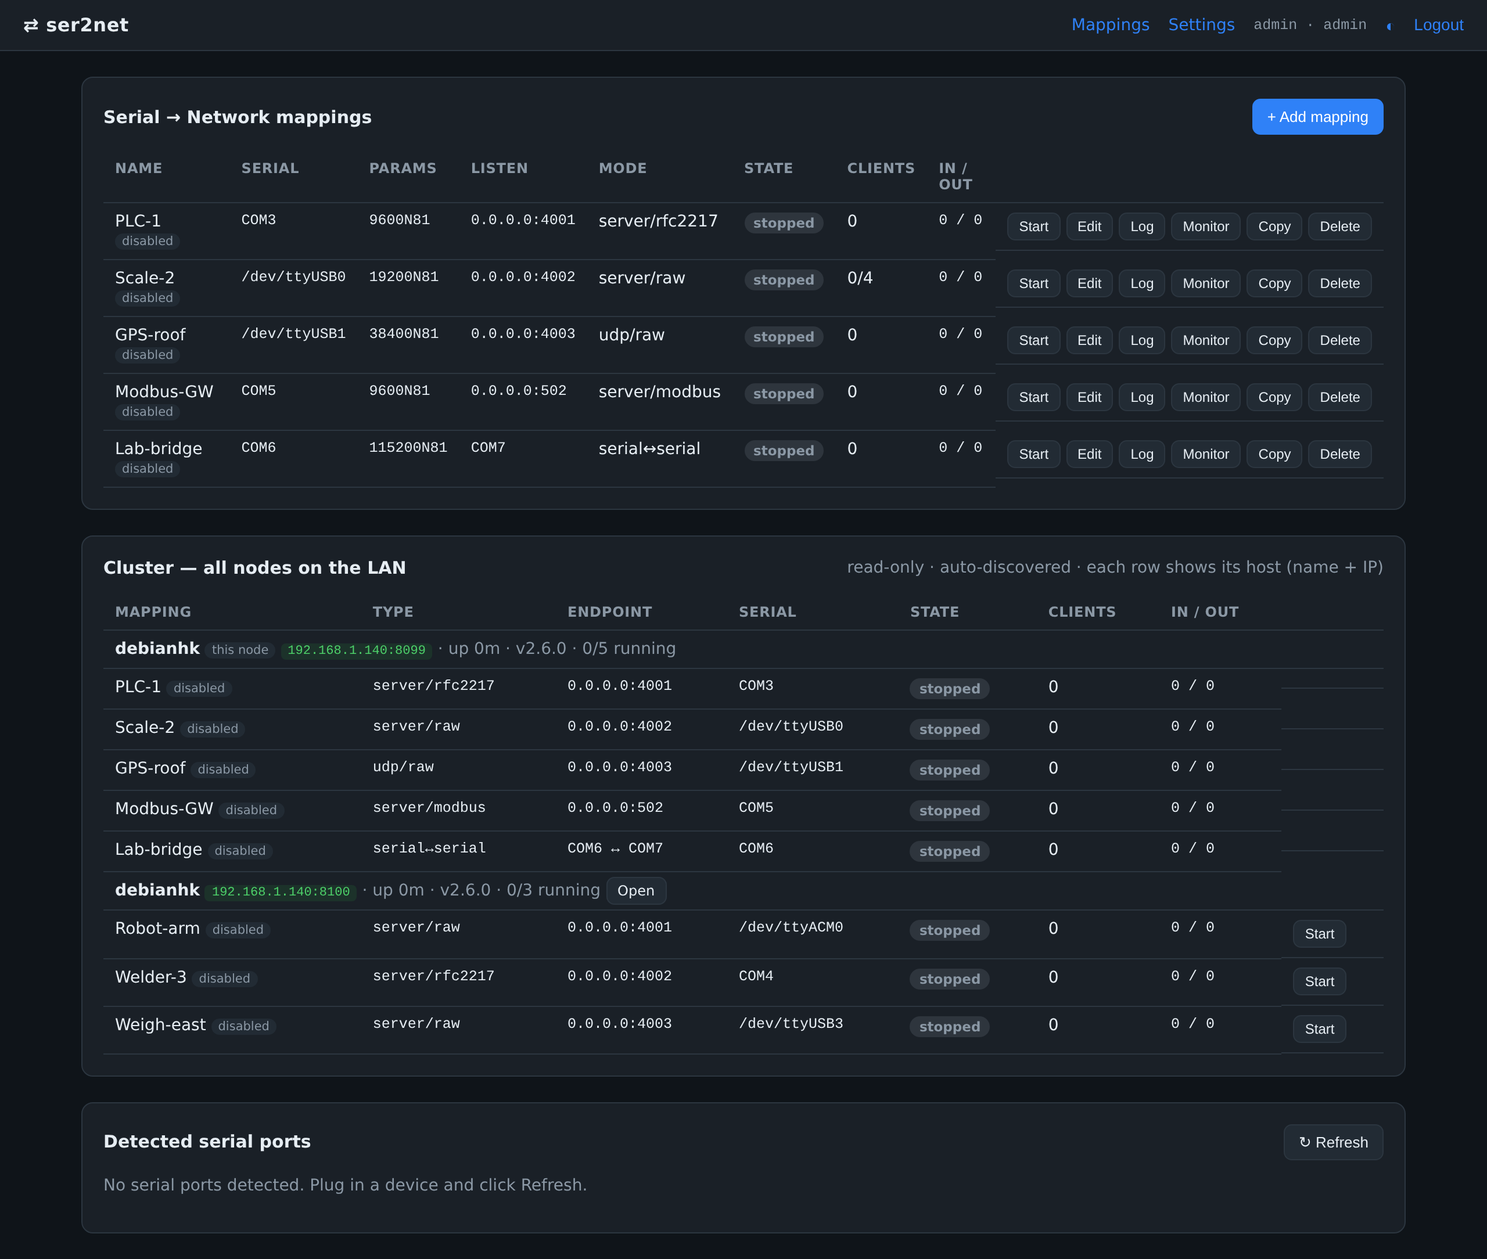
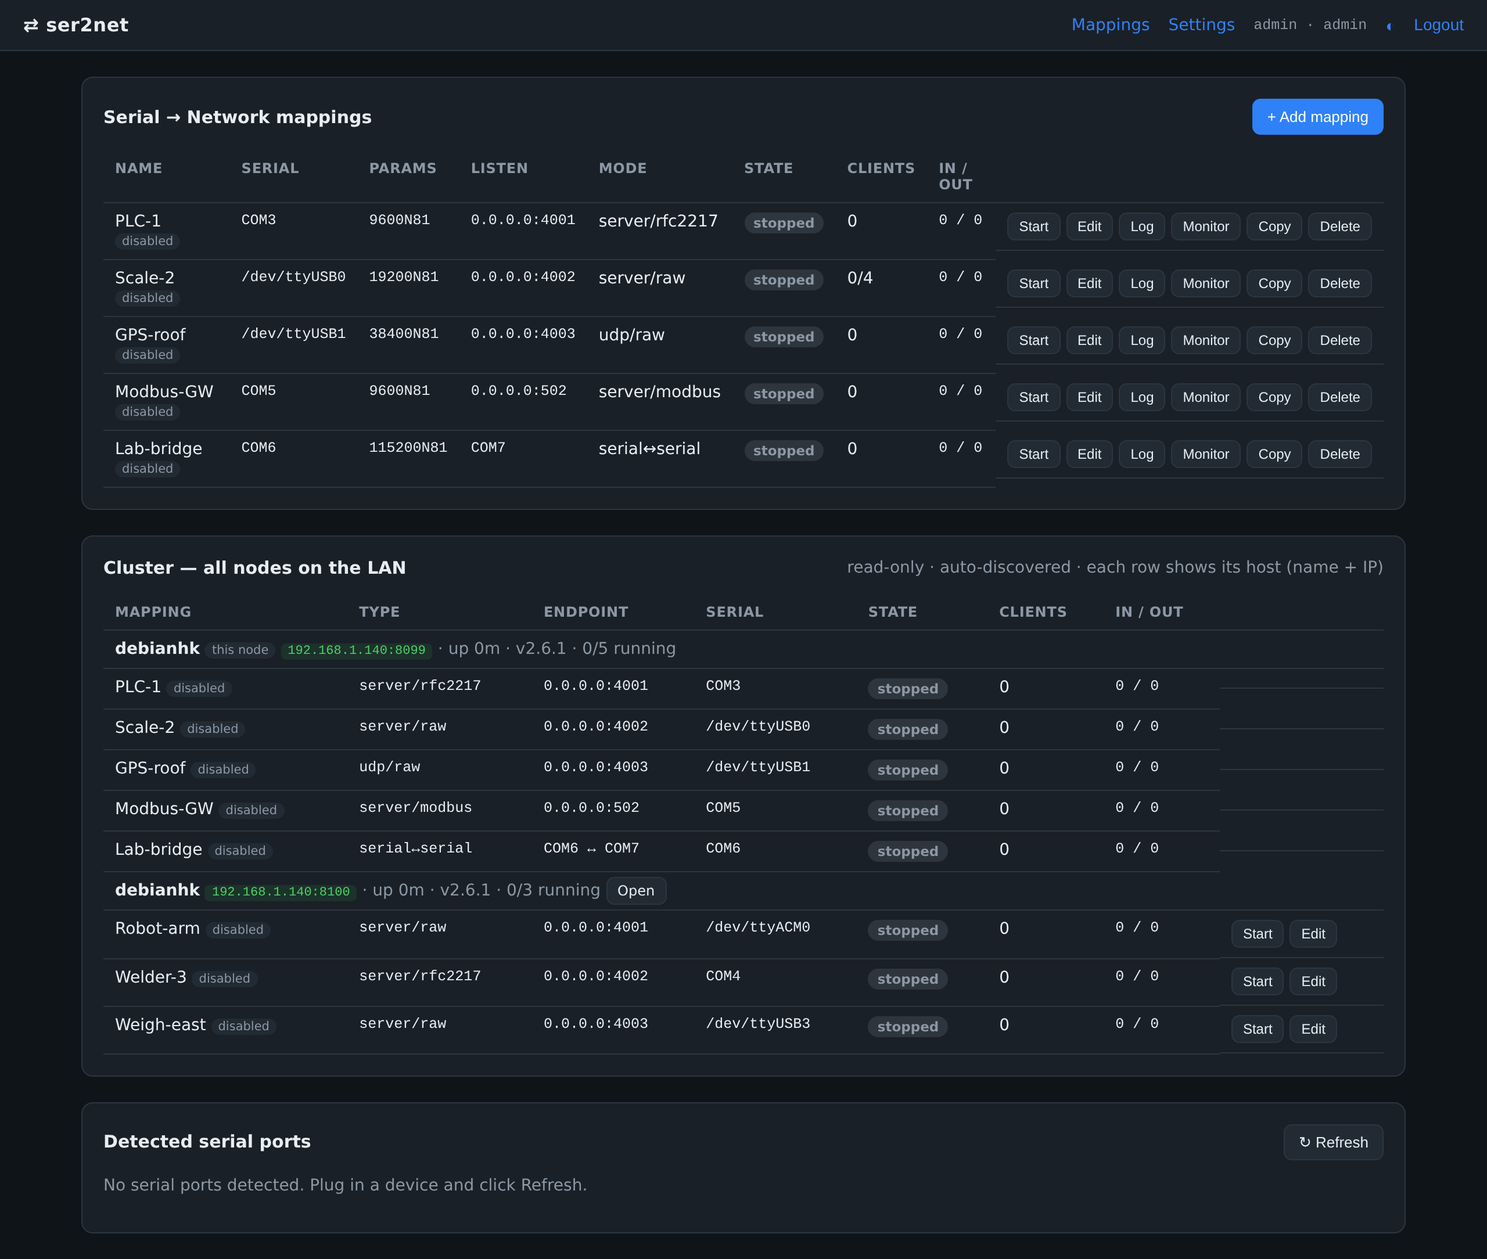
feat(cluster): remote edit of a peer's mapping from the unified view (v2.6.1)
Operators can now edit a remote node's mapping from the fleet table, not just
start/stop/restart it.

- Key-guarded peer endpoints: GET /api/cluster/mapping-data (mapping config + the
  peer's serial ports + IP candidates) and POST /api/cluster/mapping-save (validate
  + persist + apply on the target). Both in _CLUSTER_PEER_PATHS (PUBLIC + CSRF-exempt).
- Browser-facing proxies (operator+, allowlist-checked): GET /api/cluster/peer-form
  and POST /api/cluster/peer-save. The edit form is rendered on the CONTROLLING node
  (so the CSRF token belongs to the browser's session), with _mapping_form.html in a
  "remote mode" that targets the proxy and carries the peer routing; the save is then
  forwarded to the peer with the shared key.
- mapping_save refactored to share _save_mapping_from_form; peer HTTP generalized to
  get_peer/post_peer. Edit button on remote rows.
- tests/test_cluster.py: extends the two-node test with a remote edit (form loads
  from the peer + a save changes the peer's mapping) and the mapping-save key guard.
- Version 2.6.1 (single-sourced in app/__init__.py); README/ROADMAP + screenshots.

diff --git a/app/web/templates/_mapping_form.html b/app/web/templates/_mapping_form.html
@@ -45,12 +45,17 @@
 
 {% set ip_values = ips | map(attribute='value') | list %}
 {% set bind_is_custom = mapping.network.bind_ip not in ip_values %}
-<form class="mform" hx-post="/api/mappings/save" hx-target="#form-panel" hx-swap="innerHTML">
+<form class="mform" hx-post="{{ '/api/cluster/peer-save' if remote else '/api/mappings/save' }}" hx-target="#form-panel" hx-swap="innerHTML">
   <input type="hidden" name="_csrf" value="{{ request.state.csrf_token }}">
+  {% if remote %}
+  <input type="hidden" name="scheme" value="{{ remote.scheme }}">
+  <input type="hidden" name="host" value="{{ remote.host }}">
+  <input type="hidden" name="port" value="{{ remote.port }}">
+  {% endif %}
   {% if not is_new %}<input type="hidden" name="id" value="{{ mapping.id }}">{% endif %}
 
   <div class="form-head">
-    <h3>{{ 'New mapping' if is_new else 'Edit mapping' }}</h3>
+    <h3>{{ 'New mapping' if is_new else 'Edit mapping' }}{% if remote %} <span class="tag">on {{ remote.host }}:{{ remote.port }}</span>{% endif %}</h3>
     <button type="button" class="btn sm" data-cancel>Cancel</button>
   </div>
   {% if error %}<div class="banner error">{{ error }}</div>{% endif %}

diff --git a/app/web/templates/_cluster_body.html b/app/web/templates/_cluster_body.html
@@ -43,6 +43,7 @@
           {% else %}
             <button class="btn sm" hx-post="/api/cluster/control-peer" hx-vals='{{ vals }}start"}' hx-swap="none">Start</button>
           {% endif %}
+          <button class="btn sm" hx-get="/api/cluster/peer-form?scheme={{ n.scheme }}&host={{ n.ip }}&port={{ n.port }}&mid={{ m.id }}" hx-target="#form-panel" hx-swap="innerHTML">Edit</button>
         {% endif %}
       </td>
     </tr>

diff --git a/app/web/routes.py b/app/web/routes.py
@@ -757,6 +757,97 @@ def build_routes(templates, state, static_dir):
         state.audit(client_ip(request), f"cluster_control_{action}", f"{host}:{port}/{res.get('name', mid)}")
         return Response("", headers={"HX-Trigger": "refreshCluster"})
 
+    # ---- remote EDIT: peer renders no UI; THIS node renders the form (so the CSRF
+    #      token + form action belong to the browser's session) and proxies the save.
+    async def cluster_mapping_data(request):
+        """Peer-facing: a mapping's full config + this node's serial ports + IP
+        candidates, so the controlling node can render the edit form. Key-guarded."""
+        cfg = state.config
+        key = request.headers.get("x-cluster-key", "")
+        if not (cfg.cluster.active and key and hmac.compare_digest(key, cfg.cluster.key)):
+            return JSONResponse({"error": "forbidden"}, status_code=403)
+        m = cfg.get_mapping(request.query_params.get("mid", ""))
+        if not m:
+            return JSONResponse({"error": "not_found"}, status_code=404)
+        return JSONResponse({"mapping": m.to_dict(), "ports": state.ports.get(),
+                             "ips": netinfo.list_ip_candidates()})
+
+    async def cluster_mapping_save(request):
+        """Peer-facing: validate + persist + apply an edited mapping on THIS node, run
+        from the same form the controlling node rendered. Key-guarded."""
+        cfg = state.config
+        key = request.headers.get("x-cluster-key", "")
+        if not (cfg.cluster.active and key and hmac.compare_digest(key, cfg.cluster.key)):
+            return JSONResponse({"error": "forbidden"}, status_code=403)
+        form = await request.form()
+        ok, msg = await _save_mapping_from_form(form)
+        if not ok:
+            return JSONResponse({"ok": False, "error": msg}, status_code=400)
+        ip = client_ip(request)
+        state.log(f"cluster: remote edit of '{msg}' from {ip}")
+        state.audit(ip, "cluster_remote_save", msg)
+        return JSONResponse({"ok": True, "name": msg})
+
+    def _peer_from_request(getter):
+        """(scheme, host, port) from a request, validated against the peer allowlist.
+        Returns (tuple, None) on success or (None, error-response)."""
+        scheme, host = getter("scheme", "http"), getter("host", "")
+        try:
+            port = int(getter("port", "0"))
+        except ValueError:
+            return None, PlainTextResponse("Bad peer port", status_code=400)
+        if (host, port) not in state.cluster.known_addresses():
+            return None, PlainTextResponse("Unknown cluster peer", status_code=403)
+        return (scheme, host, port), None
+
+    async def cluster_peer_form(request):
+        """Browser-facing proxy: load a peer's mapping into the edit form (rendered
+        here so the CSRF token is the browser's). Submits to /api/cluster/peer-save."""
+        if deny := require_role(request, "operator"):
+            return deny
+        peer, err = _peer_from_request(request.query_params.get)
+        if err:
+            return err
+        scheme, host, port = peer
+        mid = request.query_params.get("mid", "")
+        data = await state.cluster.get_peer(scheme, host, port, f"/api/cluster/mapping-data?mid={mid}")
+        if not data or "mapping" not in data:
+            return PlainTextResponse("Could not load the peer's mapping.", status_code=502)
+        mapping = MappingConfig.from_dict(data["mapping"])
+        return render(request, "_mapping_form.html", mapping=mapping, is_new=False,
+                      modbus_points_json=_modbus_points_json(mapping),
+                      ports=data.get("ports", []), ips=data.get("ips", []),
+                      remote={"scheme": scheme, "host": host, "port": port}, error=None)
+
+    async def cluster_peer_save(request):
+        """Browser-facing proxy: forward an edited mapping form to the peer's key-guarded
+        save (peer fields stripped); on a peer error, re-render the form with it."""
+        if deny := require_role(request, "operator"):
+            return deny
+        form = await request.form()
+        peer, err = _peer_from_request(form.get)
+        if err:
+            return err
+        scheme, host, port = peer
+        skip = {"_peer_scheme", "_peer_host", "_peer_port", "_csrf", "scheme", "host", "port"}
+        fields = [(k, v) for k, v in form.multi_items() if k not in skip]
+        res = await state.cluster.post_peer(scheme, host, port, "/api/cluster/mapping-save", fields)
+        if res and res.get("ok"):
+            state.log(f"cluster: edited '{res.get('name', '')}' on {host}:{port}")
+            state.audit(client_ip(request), "cluster_edit", f"{host}:{port}/{res.get('name', '')}")
+            return Response("", headers={"HX-Trigger": "refreshCluster"})
+        msg = (res or {}).get("error") or "The peer rejected the change or was unreachable."
+        data = await state.cluster.get_peer(scheme, host, port,
+                                            f"/api/cluster/mapping-data?mid={form.get('id', '')}")
+        try:
+            mapping = MappingConfig.from_dict(_build_mapping_dict(form, strict=False))
+        except Exception:
+            mapping = MappingConfig(name=form.get("name", ""))
+        return render(request, "_mapping_form.html", status_code=400, mapping=mapping, is_new=False,
+                      modbus_points_json=_modbus_points_json(mapping),
+                      ports=(data or {}).get("ports", []), ips=(data or {}).get("ips", []),
+                      remote={"scheme": scheme, "host": host, "port": port}, error=msg)
+
     async def settings_cluster_post(request):
         if deny := require_role(request, "admin"):
             return deny
@@ -839,21 +930,19 @@ def build_routes(templates, state, static_dir):
         return render(request, "_console.html", mid=mid, mapping_name=m.name,
                       interactive=interactive)
 
-    async def mapping_save(request):
-        if deny := require_role(request, "operator"):
-            return deny
-        form = await request.form()
+    async def _save_mapping_from_form(form) -> tuple[bool, str]:
+        """Parse a mapping form, validate, persist and (re)apply. Returns (ok, name)
+        on success or (False, error). Shared by the local UI save and the cluster
+        remote-edit save (which runs the same form on the target node)."""
         try:
-            data = _mapping_from_form(form)
-            mapping = MappingConfig.from_dict(data)
+            mapping = MappingConfig.from_dict(_mapping_from_form(form))
             # The form doesn't expose every field; when editing, carry the unexposed
             # ones over so a save never silently wipes them (get_mapping is a sync
             # read — safe outside the config lock).
             _preserve_unmanaged_fields(mapping, state.config.get_mapping(mapping.id))
             mapping.validate()
         except (ValueError, ConfigError) as e:
-            return _form_error(render, request, state, form, str(e))
-
+            return False, str(e)
         # Hold the lock only to mutate + persist config; release it BEFORE the
         # (potentially slow) supervisor call so other admin requests aren't blocked
         # while a serial port is being (re)opened.
@@ -868,10 +957,19 @@ def build_routes(templates, state, static_dir):
                 await state.asave()
             except ConfigError as e:
                 state.config.mappings = backup
-                return _form_error(render, request, state, form, str(e))
+                return False, str(e)
         await state.supervisor.apply_mapping(mapping)
-        state.log(f"mapping saved: {mapping.name}")
-        state.audit(client_ip(request), "mapping_save", mapping.name)
+        return True, mapping.name
+
+    async def mapping_save(request):
+        if deny := require_role(request, "operator"):
+            return deny
+        form = await request.form()
+        ok, msg = await _save_mapping_from_form(form)
+        if not ok:
+            return _form_error(render, request, state, form, msg)
+        state.log(f"mapping saved: {msg}")
+        state.audit(client_ip(request), "mapping_save", msg)
         return Response("", headers=_TRIGGER)
 
     async def mapping_delete(request):
@@ -957,6 +1055,10 @@ def build_routes(templates, state, static_dir):
         Route("/api/cluster/local", cluster_local),
         Route("/api/cluster/control", cluster_control, methods=["POST"]),
         Route("/api/cluster/control-peer", cluster_control_peer, methods=["POST"]),
+        Route("/api/cluster/mapping-data", cluster_mapping_data),
+        Route("/api/cluster/mapping-save", cluster_mapping_save, methods=["POST"]),
+        Route("/api/cluster/peer-form", cluster_peer_form),
+        Route("/api/cluster/peer-save", cluster_peer_save, methods=["POST"]),
         Route("/api/ports.json", api_ports_json),
         Route("/api/ports/refresh", api_ports_refresh, methods=["POST"]),
         Route("/api/ports/table", api_ports_table),

diff --git a/app/engine/cluster.py b/app/engine/cluster.py
@@ -250,10 +250,26 @@ class ClusterDiscovery:
         ctx.verify_mode = ssl.CERT_NONE   # cluster trust is the shared key, not the cert
         return ctx
 
-    # ----- peer aggregation (HTTP) -----
-    async def fetch_peer(self, peer: dict, timeout: float = 2.5) -> dict | None:
-        url = f"{peer['scheme']}://{peer['ip']}:{peer['port']}/api/cluster/local"
+    # ----- peer HTTP (all key-guarded; trust is the shared key) -----
+    async def get_peer(self, scheme: str, host: str, port: int, path: str,
+                       timeout: float = 3.0) -> dict | None:
+        url = f"{scheme}://{host}:{port}{path}"
         return await asyncio.to_thread(self._http_get_json, url, timeout)
+
+    async def post_peer(self, scheme: str, host: str, port: int, path: str,
+                        fields: dict, timeout: float = 6.0) -> dict | None:
+        url = f"{scheme}://{host}:{port}{path}"
+        data = urllib.parse.urlencode(fields).encode()
+        return await asyncio.to_thread(self._http_post_json, url, data, timeout)
+
+    async def fetch_peer(self, peer: dict, timeout: float = 2.5) -> dict | None:
+        return await self.get_peer(peer["scheme"], peer["ip"], peer["port"],
+                                   "/api/cluster/local", timeout)
+
+    async def control_peer(self, scheme: str, host: str, port: int, mapping_id: str,
+                           action: str, timeout: float = 4.0) -> dict | None:
+        return await self.post_peer(scheme, host, port, "/api/cluster/control",
+                                    {"mapping_id": mapping_id, "action": action}, timeout)
 
     def _http_get_json(self, url: str, timeout: float) -> dict | None:
         req = urllib.request.Request(url, headers={"X-Cluster-Key": self.cluster.key})
@@ -262,13 +278,6 @@ class ClusterDiscovery:
                 return json.loads(r.read().decode("utf-8"))
         except Exception:
             return None
-
-    # ----- remote control (HTTP POST to a peer's key-guarded control endpoint) -----
-    async def control_peer(self, scheme: str, host: str, port: int, mapping_id: str,
-                           action: str, timeout: float = 4.0) -> dict | None:
-        url = f"{scheme}://{host}:{port}/api/cluster/control"
-        data = urllib.parse.urlencode({"mapping_id": mapping_id, "action": action}).encode()
-        return await asyncio.to_thread(self._http_post_json, url, data, timeout)
 
     def _http_post_json(self, url: str, data: bytes, timeout: float) -> dict | None:
         req = urllib.request.Request(

diff --git a/tests/test_cluster.py b/tests/test_cluster.py
@@ -293,7 +293,36 @@ def test_manual_peer_and_remote_control():
         assert post_a("/api/cluster/control-peer", bad) == 403, "unknown peer must be rejected"
         print("control proxy rejects an unknown (non-peer) address  OK")
 
-        print("\nPASS: manual peers + per-node health + remote control")
+        # ---- remote EDIT: load the peer's mapping into the form, change it, save ----
+        form_url = (f"/api/cluster/peer-form?scheme=http&host=127.0.0.1"
+                    f"&port={ui_b}&mid={mid}")
+        html = op.open(f"http://127.0.0.1:{ui_a}{form_url}", timeout=10).read().decode()
+        assert "/api/cluster/peer-save" in html and 'name="host"' in html, html[:400]
+        assert "Edit mapping" in html and "/dev/ttyTEST" in html, "form should show peer's values"
+        print("remote edit: peer's mapping loads into the form (routed to peer-save)  OK")
+
+        # peer-facing save is key-guarded
+        code, _ = raw_request(ui_b, "/api/cluster/mapping-save", method="POST")
+        assert code == 403, f"mapping-save without key must be 403, got {code}"
+
+        edit = {"_csrf": csrf(), "scheme": "http", "host": "127.0.0.1", "port": str(ui_b),
+                "id": mid, "name": "REMOTE1", "enabled": "on", "kind": "net",
+                "serial_port": "/dev/ttyEDITED", "serial_baudrate": "19200",
+                "serial_bytesize": "8", "serial_parity": "N", "serial_stopbits": "1",
+                "serial_flowcontrol": "none", "network_mode": "server",
+                "network_protocol": "raw", "network_bind_ip": "127.0.0.1",
+                "network_port": str(map_port)}
+        assert post_a("/api/cluster/peer-save", edit) == 200, "remote edit should be accepted"
+        for _ in range(20):
+            _, body = raw_request(ui_b, "/api/cluster/local", {"X-Cluster-Key": key})
+            if json.loads(body)["mappings"][0]["serial"] == "/dev/ttyEDITED":
+                break
+            time.sleep(0.1)
+        assert json.loads(body)["mappings"][0]["serial"] == "/dev/ttyEDITED", \
+            "remote edit did not change the peer's mapping"
+        print("remote edit of a peer's mapping took effect on the peer  OK")
+
+        print("\nPASS: manual peers + per-node health + remote control + remote edit")
     finally:
         for proc, tmp in ((pa, ta), (pb, tb)):
             proc.terminate()

diff --git a/app/web/server.py b/app/web/server.py
@@ -23,11 +23,12 @@ TEMPLATES_DIR = os.path.join(os.path.dirname(__file__), "templates")
 STATIC_DIR = os.path.join(os.path.dirname(__file__), "static")
 
 PUBLIC_PREFIXES = ("/static", "/auth/")  # /auth/oidc/* is the unauthenticated SSO flow
-# /api/cluster/local + /api/cluster/control are authenticated by the shared cluster
-# KEY (checked in the handler), not a user session — so they skip the session gate.
-# (control-peer is the browser-facing proxy and keeps the normal session + CSRF.)
-PUBLIC_PATHS = {"/login", "/setup", "/healthz", "/favicon.ico",
-                "/api/cluster/local", "/api/cluster/control"}
+# The peer-facing cluster endpoints are authenticated by the shared cluster KEY
+# (checked in the handler), not a user session — so they skip the session gate.
+# (The *-peer / peer-* proxies are browser-facing and keep the normal session + CSRF.)
+_CLUSTER_PEER_PATHS = {"/api/cluster/local", "/api/cluster/control",
+                       "/api/cluster/mapping-data", "/api/cluster/mapping-save"}
+PUBLIC_PATHS = {"/login", "/setup", "/healthz", "/favicon.ico"} | _CLUSTER_PEER_PATHS
 
 # High-frequency automatic UI refreshes — not logged to all.log to avoid flooding
 # the audit trail (the user actions that drive them ARE logged).
@@ -66,7 +67,7 @@ class GuardMiddleware(BaseHTTPMiddleware):
         # here, since doing so in a BaseHTTPMiddleware drains the stream before the
         # route handler can parse the form.
         if request.method in ("POST", "PUT", "DELETE", "PATCH") and path.startswith("/api/") \
-                and path != "/api/cluster/control":  # peer-to-peer call: key-authed, no cookie
+                and path not in _CLUSTER_PEER_PATHS:  # peer-to-peer calls: key-authed, no cookie
             if not auth.csrf_token_matches(request, request.headers.get("x-csrf-token")):
                 return PlainTextResponse("CSRF validation failed. Reload the page.", status_code=403)
 

diff --git a/app/__init__.py b/app/__init__.py
@@ -1,4 +1,4 @@
 """ser2net — serial-to-network bridge with a web config UI."""
 
 # Single source of truth for the version (ser2net.py and the web layer import this).
-__version__ = "2.6.0"
+__version__ = "2.6.1"

diff --git a/ROADMAP.md b/ROADMAP.md
@@ -1,6 +1,6 @@
 # ser2net — Roadmap
 
-> Current release: **v2.6.0**. CI is green across Linux + Windows × Python 3.10–3.13.
+> Current release: **v2.6.1**. CI is green across Linux + Windows × Python 3.10–3.13.
 
 ## Shipped
 
@@ -80,9 +80,11 @@
   `/api/cluster/local`; the browser only talks to the node it logged into.
 
 ### v2.6 — cluster depth
-- **Remote control** from the unified view: operators start/stop/restart a peer's mappings
-  (key-guarded `/api/cluster/control` on the target + a session-authed proxy that validates
-  the peer against a known-address allowlist, so the browser can't aim it anywhere)
+- **Remote control + edit** from the unified view: operators start/stop/restart **and edit**
+  a peer's mappings. Key-guarded peer endpoints (`/api/cluster/control`, `/mapping-data`,
+  `/mapping-save`); session-authed proxies validate the target against a known-address
+  allowlist, and the edit **form is rendered on the controlling node** (so the CSRF token
+  is the browser's) then proxied to the peer with the shared key.
 - **Per-node health**: uptime · version · running/total, plus an online/offline indicator
   and a UI banner when UDP discovery can't bind (manual peers still work)
 - **Manual peers** (`host:port`) for routed/L3 networks broadcast can't reach, aggregated
@@ -96,7 +98,6 @@
 - Validate/curb peer-advertised IPs before the server-side fetch (SSRF defense-in-depth)
 - Optional TLS certificate pinning for peer fetch/control; a light rate-limit on the
   key-guarded peer endpoints; optional IPv6 (multicast) discovery
-- Remote **edit** of a peer's mapping (today's remote control is start/stop/restart)
 
 ### v2.7 — industrial/IIoT depth
 - **Sparkplug B** edge payloads (Modbus register + MQTT plumbing already in place)

diff --git a/README.en.md b/README.en.md
@@ -90,8 +90,8 @@ everything from a **password-protected web UI** — no CLI or hand-edited config
 - **LAN cluster (fleet management):** nodes on the same network **auto-discover** each
   other (signed UDP broadcast — no mDNS) and one node shows **every node's mappings in a
   single table**, each row tagged with its host (name + IP) and each node's **health**
-  (uptime · version · running/total). Operators can **remotely start/stop/restart** a
-  peer's mappings from that view. For routed/L3 networks broadcast can't reach, add
+  (uptime · version · running/total). Operators can **remotely start/stop/restart and edit**
+  a peer's mappings from that view. For routed/L3 networks broadcast can't reach, add
   **manual peers** (host:port). Trust = the **same shared key** on every node; off by
   default, enable under Settings → LAN cluster.
 - **Deployment:** official **Docker** image + `docker-compose`; **systemd** unit;

diff --git a/README.md b/README.md
@@ -91,7 +91,7 @@ düzenlemeye gerek yok.
   (imzalı UDP broadcast — mDNS yok) ve bir düğüm **tüm düğümlerin eşlemelerini tek
   tabloda** gösterir; her satır hangi bilgisayara ait olduğunu (ad + IP) ve her düğümün
   **sağlığını** (uptime · sürüm · çalışan/toplam) belirtir. Operatörler bu ekrandan
-  başka bir host'un eşlemelerini **uzaktan başlat/durdur/yeniden başlat** edebilir.
+  başka bir host'un eşlemelerini **uzaktan başlat/durdur/yeniden başlat ve düzenle** edebilir.
   Broadcast'in ulaşmadığı yönlendirilmiş/L3 ağlar için **manuel peer** (host:port)
   eklenebilir. Güven = her düğümde **aynı paylaşılan anahtar**; varsayılan kapalı,
   Ayarlar → LAN cluster'dan açılır.
